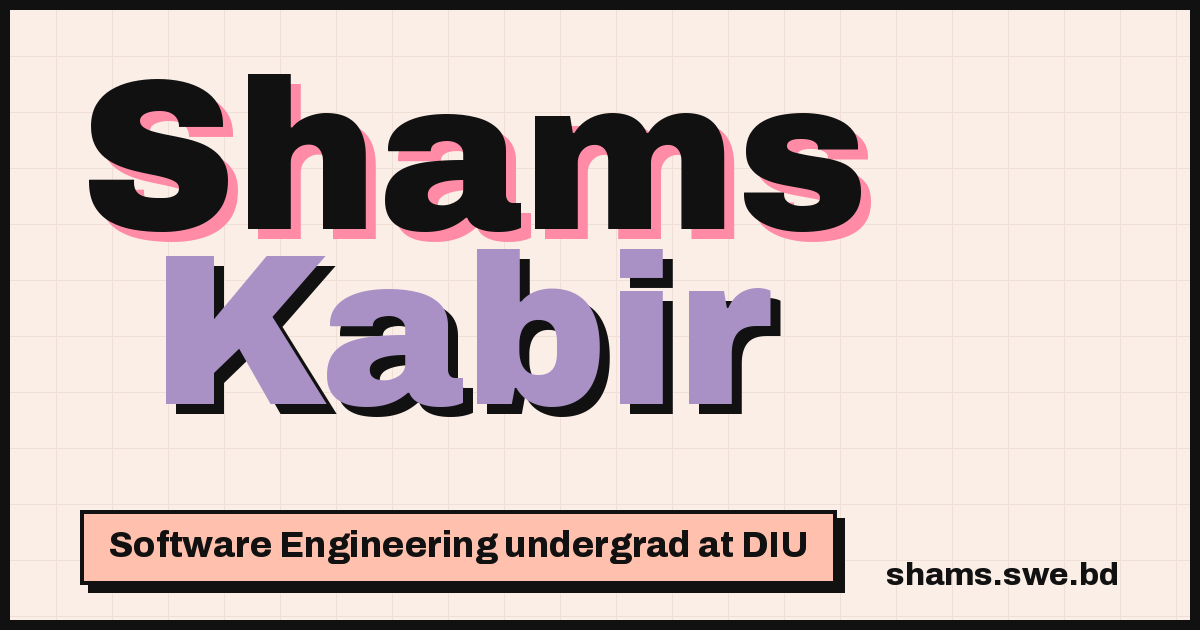
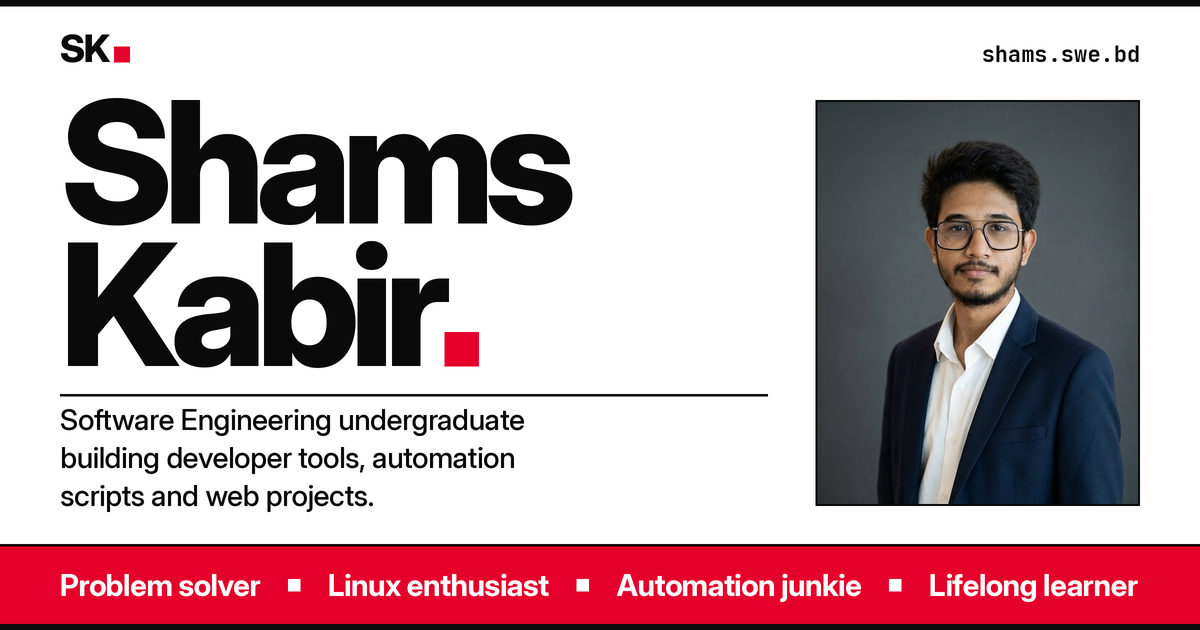
update

diff --git a/script.js b/script.js
@@ -374,9 +374,61 @@ const stackItems = mainEl ? [...mainEl.children].filter((el) => el.matches('sect
 
 stackItems.forEach((el, i) => { el.style.zIndex = i + 1; });
 
+// Active nav link. Sections are sticky, so their on-screen position is not their natural one; the
+// natural top of each section is the sum of the heights above it (the same maths the anchor links use).
+// A section counts as current once its natural top has risen into the upper part of the screen,
+// which is about when it has slid over the previous one. Only sections that have a nav link are tracked.
+const navAnchors = navLinks ? [...navLinks.querySelectorAll('a[href^="#"]')] : [];
+const navById = new Map(navAnchors.map((a) => [a.getAttribute('href').slice(1), a]));
+let sectionTops = [];   // [{ id, top }] in document order, only for sections with a nav link
+let activeNavId = null;
+
+function computeSectionTops() {
+    sectionTops = [];
+    if (!mainEl) return;
+    let y = mainEl.offsetTop;
+    stackItems.forEach((item) => {
+        if (item.id && navById.has(item.id)) sectionTops.push({ id: item.id, top: y });
+        y += item.offsetHeight;
+    });
+}
+
+function updateActiveNav() {
+    if (!sectionTops.length) return;
+    const hdr = headerEl ? headerEl.offsetHeight : 0;
+    const vh = window.innerHeight;
+    const line = window.scrollY + hdr + (vh - hdr) * 0.3;   // the reading line, in document coordinates
+    let current = null;
+    for (const s of sectionTops) {
+        if (s.top <= line) current = s.id;
+    }
+    // At the very bottom the last section is current, even if it is shorter than the reading line allows
+    if (window.scrollY + vh >= document.documentElement.scrollHeight - 2) {
+        current = sectionTops[sectionTops.length - 1].id;
+    }
+    if (current === activeNavId) return;
+    activeNavId = current;
+    navAnchors.forEach((a) => {
+        if (a === navById.get(current)) a.setAttribute('aria-current', 'true');
+        else a.removeAttribute('aria-current');
+    });
+}
+
+let navQueued = false;
+window.addEventListener('scroll', () => {
+    if (navQueued) return;
+    navQueued = true;
+    requestAnimationFrame(() => {
+        navQueued = false;
+        updateActiveNav();
+    });
+}, { passive: true });
+
 function measureStack() {
     if (headerEl) document.documentElement.style.setProperty('--hdr', headerEl.offsetHeight + 'px');
     stackItems.forEach((el) => el.style.setProperty('--h', el.offsetHeight + 'px'));
+    computeSectionTops();
+    updateActiveNav();
 }
 
 measureStack();

diff --git a/index.html b/index.html
@@ -33,6 +33,34 @@
         href="https://fonts.googleapis.com/css2?family=Inter:wght@400;500;600;700;800&family=JetBrains+Mono:wght@500;700&display=swap"
         rel="stylesheet">
     <link rel="stylesheet" href="style.css">
+    <script type="application/ld+json">
+    {
+        "@context": "https://schema.org",
+        "@type": "Person",
+        "name": "Shams Kabir",
+        "url": "https://shams.swe.bd/",
+        "image": "https://shams.swe.bd/Shams.jpg",
+        "jobTitle": "Software Engineering Student",
+        "description": "Software Engineering undergraduate at Daffodil International University building developer tools, automation scripts, and web projects.",
+        "alumniOf": {
+            "@type": "CollegeOrUniversity",
+            "name": "Daffodil International University"
+        },
+        "knowsAbout": [
+            "Automation",
+            "Developer tools",
+            "Linux",
+            "Shell scripting",
+            "Data structures and algorithms",
+            "Object-oriented programming",
+            "Operating systems"
+        ],
+        "sameAs": [
+            "https://github.com/shams-27",
+            "https://www.linkedin.com/in/shams-kbr/"
+        ]
+    }
+    </script>
 </head>
 
 <body>

diff --git a/style.css b/style.css
@@ -90,6 +90,8 @@ nav {
     transition: color 0.15s, border-color 0.15s;
 }
 .nav-links a:hover { color: var(--accent); border-bottom-color: var(--accent); }
+/* Current section (set from script.js). Declared before the mobile menu rules so the menu's hover fill still wins */
+.nav-links a[aria-current="true"] { color: var(--accent); border-bottom-color: var(--accent); }
 
 .nav-toggle {
     display: none;

diff --git a/AGENTS.md b/AGENTS.md
@@ -8,12 +8,12 @@ Static single-page personal portfolio for Shams Kabir (`https://shams.swe.bd/`),
 
 ```text
 .
-├── index.html       # Semantic single-page markup, SEO/OG tags, inline SVGs, and section shells
+├── index.html       # Semantic single-page markup, SEO/OG tags, JSON-LD Person data, inline SVGs, and section shells
 ├── style.css        # Swiss Style tokens, 12-column grid, sticky stacking, and animations
 ├── script.js        # Google Sheets CSV parser/cache, sticky height observer, anchor scroll, UI controls
 ├── Shams.jpg        # Hero portrait (800x1000, 4:5 crop) in .hero-photo; Shams-400.jpg is the 400px srcset variant
 ├── achievement.jpg  # DIU CodeTrap Spring 2025 4th-place trophy photo (960x1310, cropped to the trophy) in #detailed-about; achievement-480.jpg is the 480px srcset variant
-├── og-image.png     # 1200x630 Open Graph / Twitter social preview card (still the old dark neo-brutalist design; regenerate in Swiss Style)
+├── og-image.png     # 1200x630 Open Graph / Twitter social preview card in Swiss Style: SK logo (left) and domain (right) on one baseline, giant Inter 800 name with red full stop, ruled lead text under it, the portrait (Shams.jpg, 4:5, 2px black border) on the right, red traits strip at the bottom. Everything sits on 60px margins: the portrait's top matches the name's cap line, its bottom the last lead baseline, its right edge the domain and strip text. Keep it to few, large elements so it stays legible when shown small; regenerate it if the name, lead, traits or portrait change
 └── Shams.jpeg       # Unused portrait asset in root; do not delete unless asked
 ```
 
@@ -38,12 +38,14 @@ python3 -m http.server 8000
 ## Quirks
 
 * **Sticky-section stacking**: Every `main > section` uses `position: sticky` driven by `--h` and `--hdr` custom properties updated via `ResizeObserver` in `script.js`. Any new section in `<main>` **must** declare an opaque `background-color` so lower sections do not bleed through (`main > section` sets `--bg`; `#skills` and `#contact` use `--bar`).
+* **Active nav link**: `script.js` marks the nav link of the current section with `aria-current="true"` (styled in `style.css` as red text plus a red underline; no animation). Because sections are sticky, it uses each section's natural top (`sectionTops`, the sum of the heights above it, recomputed in `measureStack()`), not `getBoundingClientRect`. A section becomes current when its natural top passes a reading line 30% of the way down the space below the header; at the very bottom of the page the last section wins. Only sections with a nav link are tracked (the hero and the strip are not). Keep section ids and nav `href`s in sync, and keep the `[aria-current]` rule above the mobile menu hover rules in `style.css`.
 * **Custom `#anchor` scrolling**: Native browser hash jumps fail on sticky sections; preserve the `a[href^="#"]` offset calculator in `script.js` that sums preceding `stackItems` heights.
 * **Google Sheets CSV schemas**: Expected lowercase headers:
   * `projects`: `name`, `description`, `stack`, `live_url`, `github_url`, `order` (optional numeric), `visible` (`false`/`no`/`0`/`hidden` hides row).
   * `skills`: `category`, `skill`, `full_name` (optional `<abbr title>`), `visible`.
 * **Skills markup**: `script.js` renders each category `<dt>` with class `wrap`; `style.css` neutralises its max-width and padding (`.skill-row dt.wrap`) so it sits on the grid. Keep that override if the class is touched.
 * **Async layout stability**: Keep `min-height` on `#projects .list` (`22rem`) and `#skills .skills` (`18rem`) so sticky sections do not jump when CSV rows load.
+* **Structured data**: `index.html` has a `<script type="application/ld+json">` `Person` block in `<head>` (name, url, image, jobTitle, description, alumniOf, knowsAbout, sameAs). Keep it in sync with the page: update `jobTitle`/`description` when the role or bio changes, and `sameAs` when the GitHub or LinkedIn links change. It must stay valid JSON; no trailing commas.
 * **Hero fills the first screen on every device**: `.hero` has `min-height: calc(100svh - var(--hdr) - var(--strip-h))` so hero + traits strip equal one viewport. `--strip-h` (strip height) is defined per breakpoint: ≥860px in the desktop block, ≤859px in the "one tidy column" block, and overridden at ≤639px (the strip's padding is smaller there). If the strip's padding, font-size or border changes, update all three `--strip-h` values. On ≤859px `.hero` is `display: flex` and `.hero-grid` uses `justify-content: center`, so the content sits centred in the spare height; on tall phones the extra space is split above and below. The base `.hero-foot` has `margin-top: auto` (pins it to the bottom on tablet-width desktop-less layouts); the ≤639px `.hero-foot` resets it to `0`, otherwise it opens a large gap between the name and the lead text. Keep that reset.
 * **Hero**: The animated background grid and the `.hero.is-covered` scroll toggle were removed with the neo-brutalist theme; the hero is static apart from the entrance animation. `.hero-photo img` is a 4:5 crop with `object-fit: cover`; keep the 4:5 ratio when swapping the image. On desktop it sits in columns 9–12 and is capped at `56vh` wide so it fits the first screen.
 * **Hero on phones (≤639px)**: the lead text and the portrait sit side by side in a two-column grid; the lead is vertically centred (`align-self: center`) against the portrait. Keep that alignment when editing.
